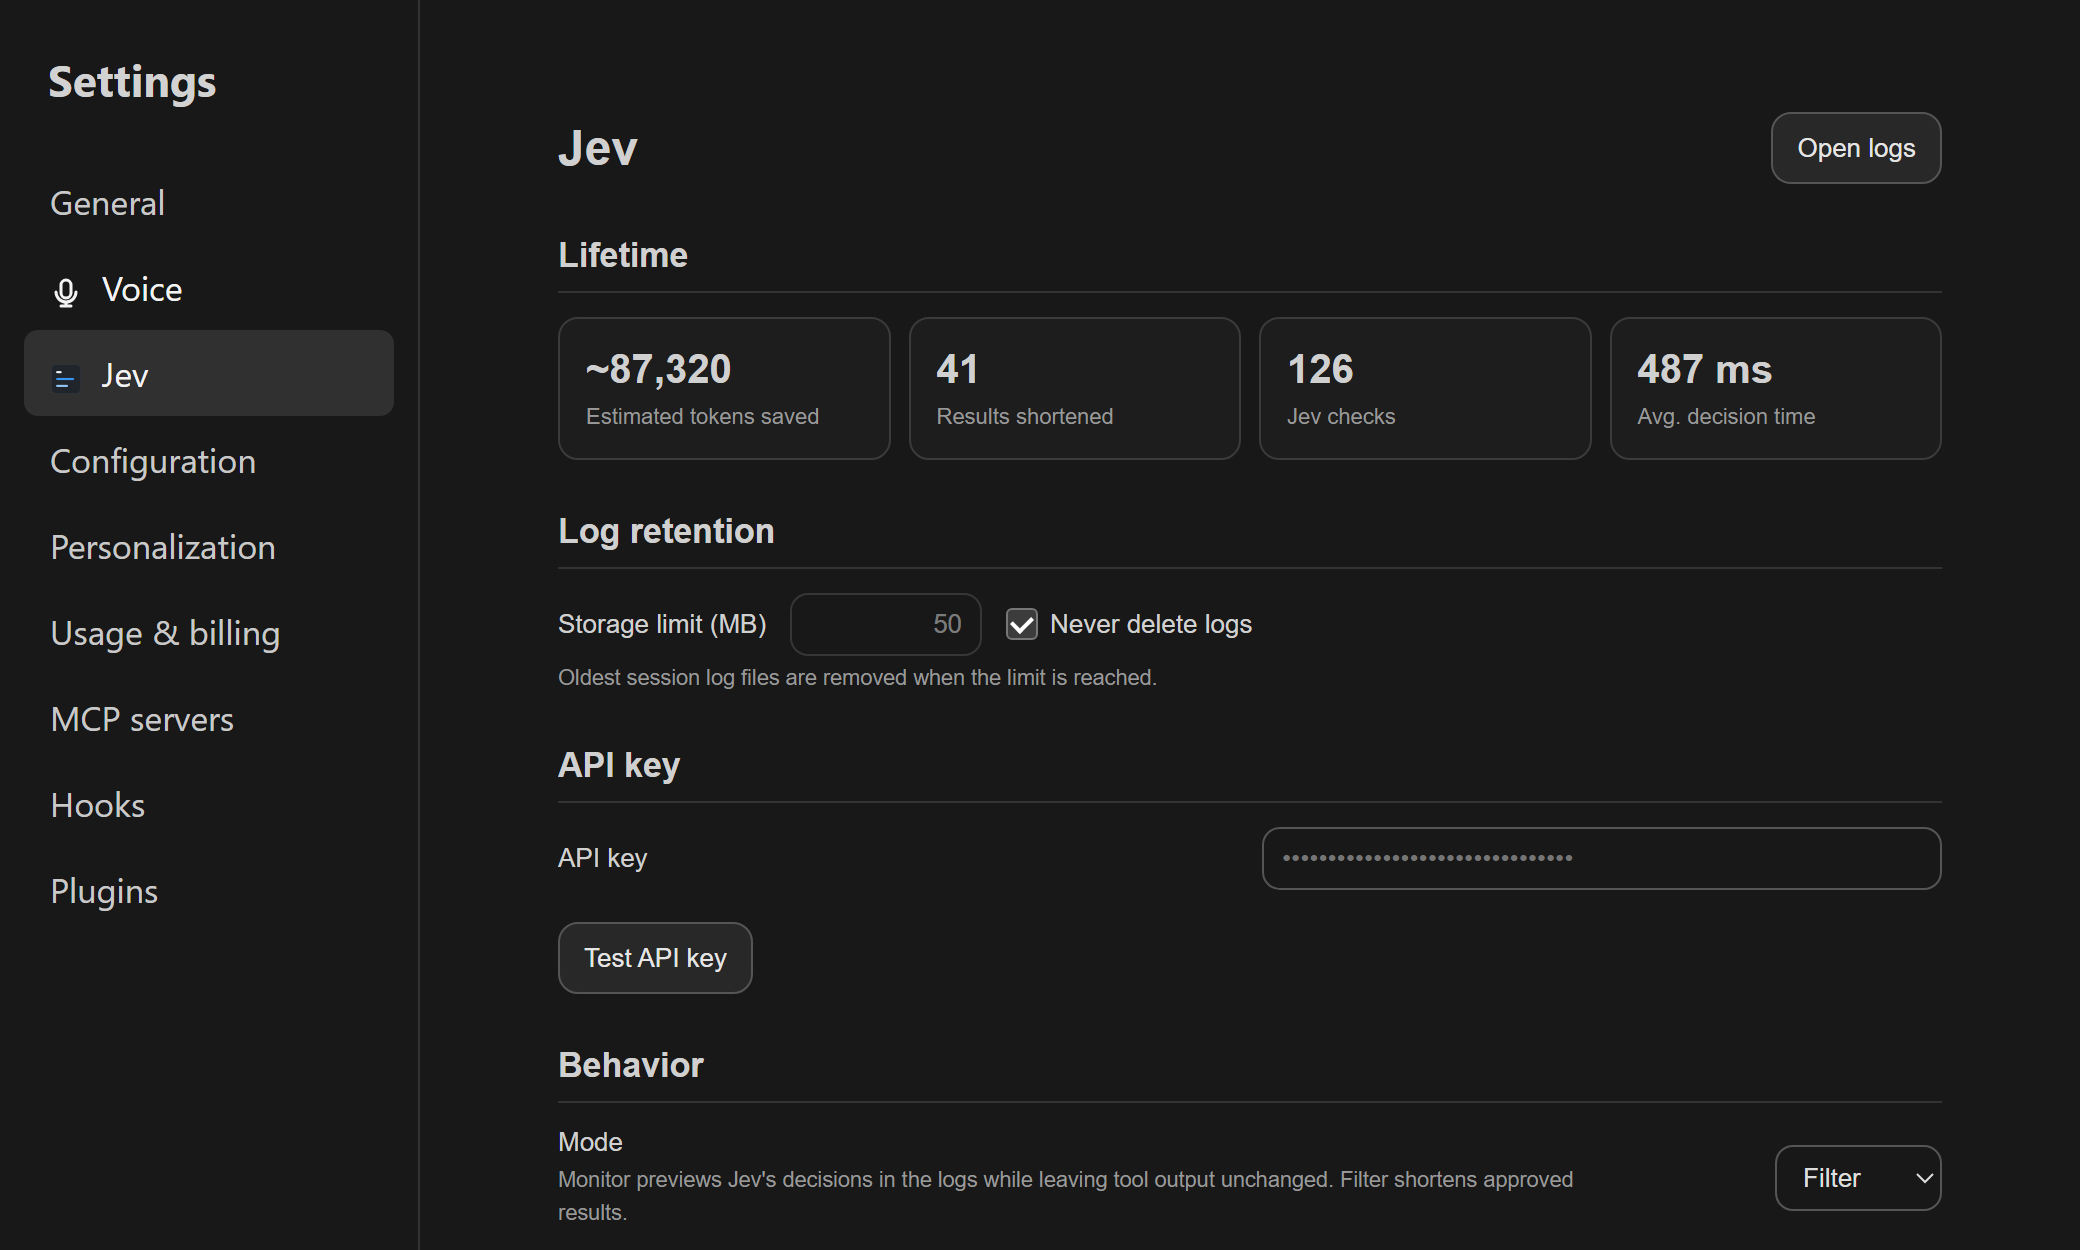
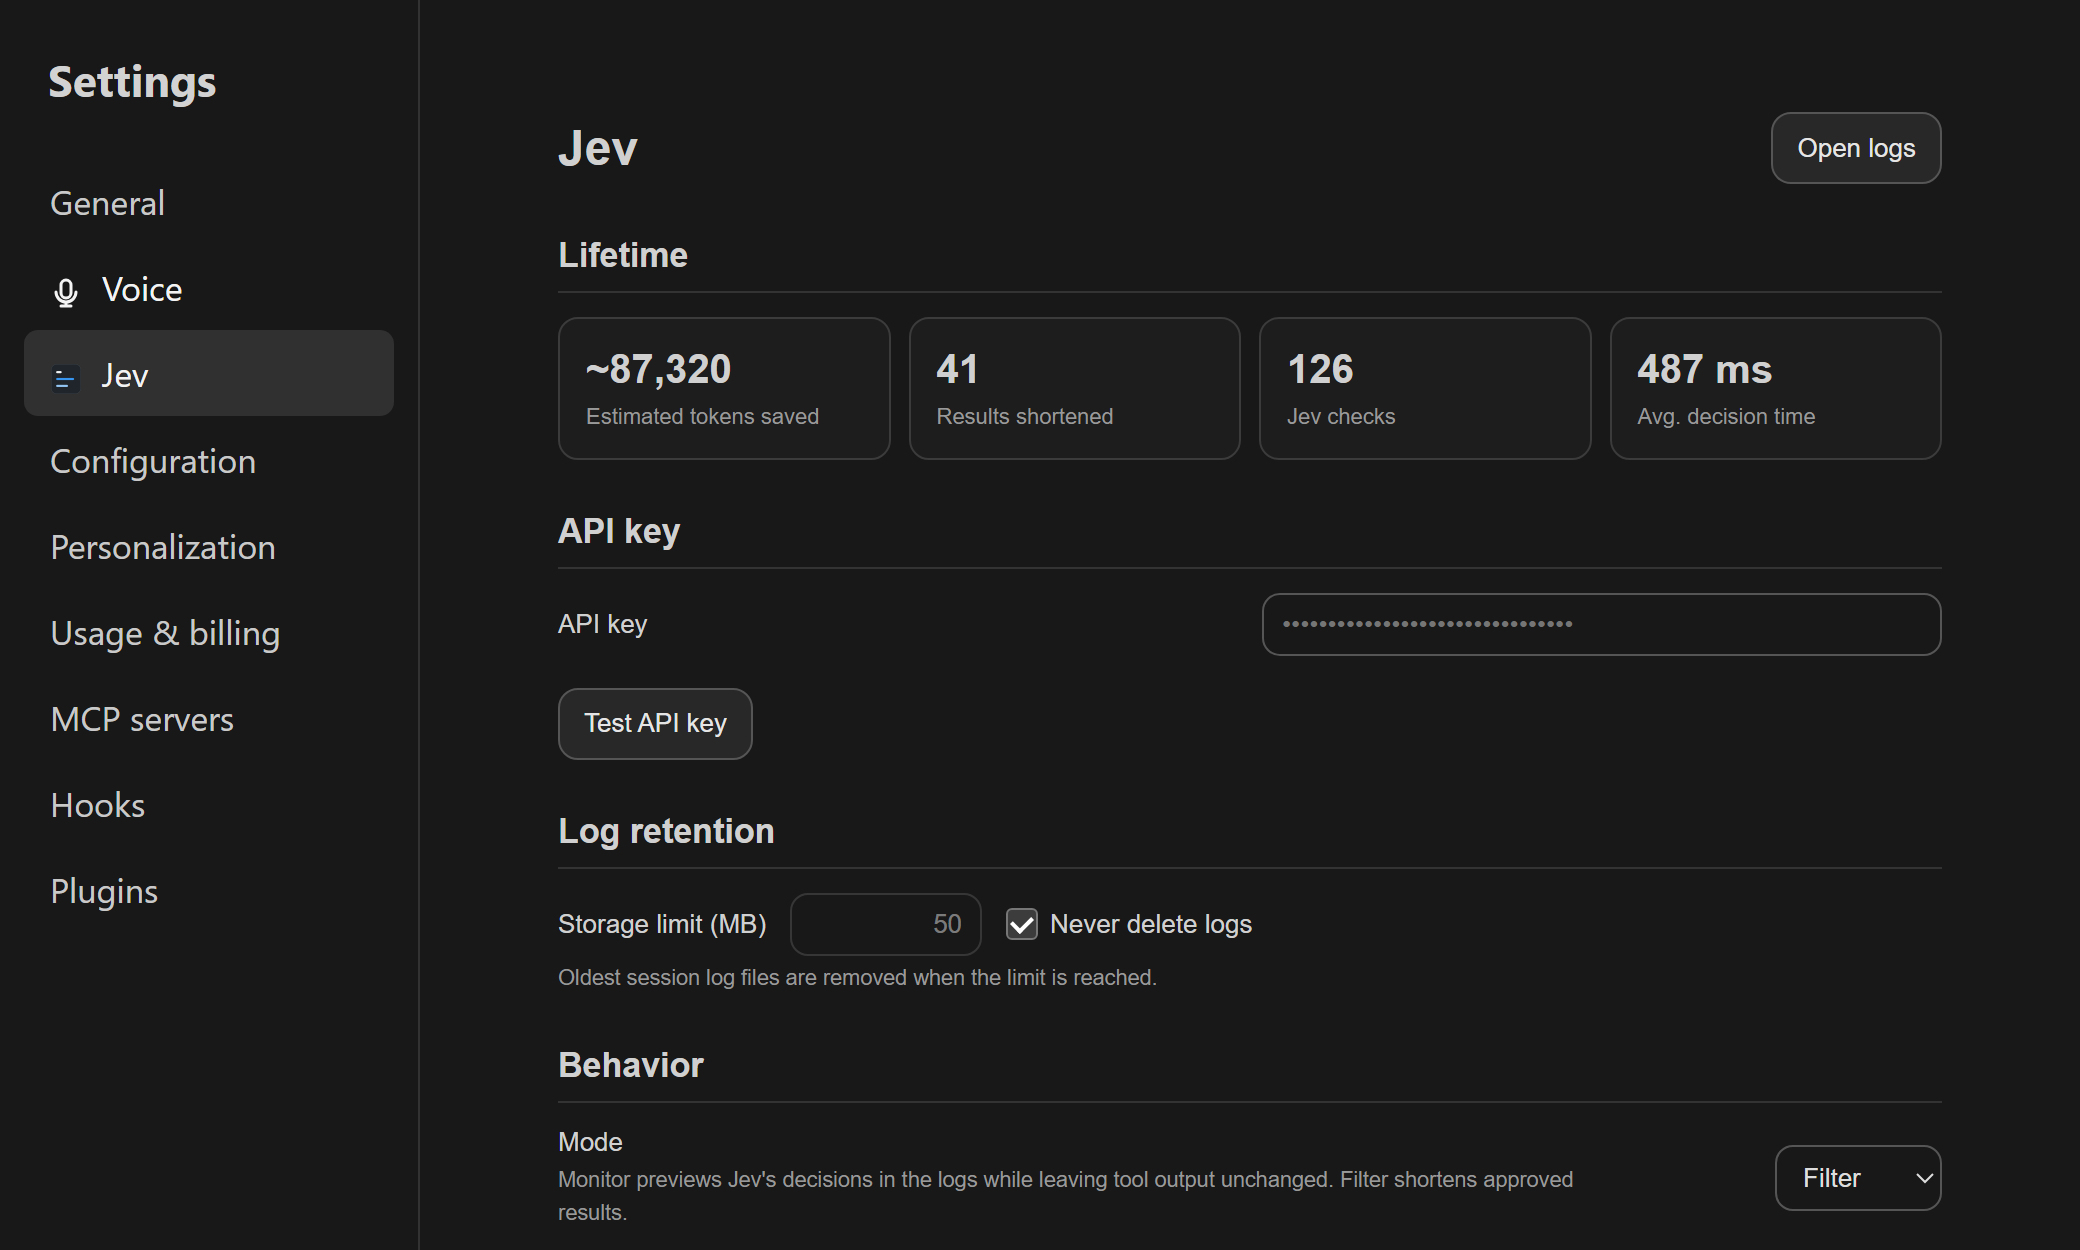
Fix

diff --git a/vscode-control/webview/jev-settings.js b/vscode-control/webview/jev-settings.js
@@ -272,7 +272,7 @@
     document.head.append(style);
     panel = document.createElement("div");
     panel.id = "codex-jev-settings-panel";
-    panel.innerHTML = `<div class="header"><h1>Jev</h1><button id="codex-jev-settings-open-logs" type="button">Open logs</button></div><section aria-label="Lifetime activity"><h2>Lifetime</h2><div class="metrics"><div class="metric"><strong id="codex-jev-settings-lifetime-tokens">—</strong><span>Estimated tokens saved</span></div><div class="metric"><strong id="codex-jev-settings-lifetime-replaced">—</strong><span>Results shortened</span></div><div class="metric"><strong id="codex-jev-settings-lifetime-calls">—</strong><span>Jev checks</span></div><div class="metric"><strong id="codex-jev-settings-lifetime-time">—</strong><span>Avg. decision time</span></div></div></section><section><h2>Log retention</h2><div class="log-retention"><label for="codex-jev-settings-log-limit">Storage limit (MB)</label><input id="codex-jev-settings-log-limit" class="log-limit-input" type="text" inputmode="numeric" maxlength="4" aria-label="Log storage limit in MB"><label for="codex-jev-settings-never-delete"><input id="codex-jev-settings-never-delete" type="checkbox">Never delete logs</label></div><small>Oldest session log files are removed when the limit is reached.</small></section><section><h2>API key</h2><div class="field"><label for="codex-jev-settings-key">API key</label><input id="codex-jev-settings-key" type="password" autocomplete="off" spellcheck="false" maxlength="4096"></div><div class="actions"><button id="codex-jev-settings-test" type="button">Test API key</button><span id="codex-jev-settings-test-status" role="status" aria-live="polite"></span></div></section><section><h2>Behavior</h2><div class="field"><label for="codex-jev-settings-mode">Mode<small>Monitor previews Jev's decisions in the logs while leaving tool output unchanged. Filter shortens approved results.</small></label><select id="codex-jev-settings-mode"><option value="observe">Monitor</option><option value="replace">Filter</option></select></div><div id="codex-jev-settings-thresholds"></div></section><div class="actions save-actions"><button id="codex-jev-settings-save" type="button" class="primary">Save settings</button><button id="codex-jev-settings-reset" type="button" class="subtle" title="Restore the default settings in this form. Save to apply." disabled>Reset defaults</button></div><p id="codex-jev-settings-message" role="status" aria-live="polite"></p>`;
+    panel.innerHTML = `<div class="header"><h1>Jev</h1><button id="codex-jev-settings-open-logs" type="button">Open logs</button></div><section aria-label="Lifetime activity"><h2>Lifetime</h2><div class="metrics"><div class="metric"><strong id="codex-jev-settings-lifetime-tokens">—</strong><span>Estimated tokens saved</span></div><div class="metric"><strong id="codex-jev-settings-lifetime-replaced">—</strong><span>Results shortened</span></div><div class="metric"><strong id="codex-jev-settings-lifetime-calls">—</strong><span>Jev checks</span></div><div class="metric"><strong id="codex-jev-settings-lifetime-time">—</strong><span>Avg. decision time</span></div></div></section><section><h2>API key</h2><div class="field"><label for="codex-jev-settings-key">API key</label><input id="codex-jev-settings-key" type="password" autocomplete="off" spellcheck="false" maxlength="4096"></div><div class="actions"><button id="codex-jev-settings-test" type="button">Test API key</button><span id="codex-jev-settings-test-status" role="status" aria-live="polite"></span></div></section><section><h2>Log retention</h2><div class="log-retention"><label for="codex-jev-settings-log-limit">Storage limit (MB)</label><input id="codex-jev-settings-log-limit" class="log-limit-input" type="text" inputmode="numeric" maxlength="4" aria-label="Log storage limit in MB"><label for="codex-jev-settings-never-delete"><input id="codex-jev-settings-never-delete" type="checkbox">Never delete logs</label></div><small>Oldest session log files are removed when the limit is reached.</small></section><section><h2>Behavior</h2><div class="field"><label for="codex-jev-settings-mode">Mode<small>Monitor previews Jev's decisions in the logs while leaving tool output unchanged. Filter shortens approved results.</small></label><select id="codex-jev-settings-mode"><option value="observe">Monitor</option><option value="replace">Filter</option></select></div><div id="codex-jev-settings-thresholds"></div></section><div class="actions save-actions"><button id="codex-jev-settings-save" type="button" class="primary">Save settings</button><button id="codex-jev-settings-reset" type="button" class="subtle" title="Restore the default settings in this form. Save to apply." disabled>Reset defaults</button></div><p id="codex-jev-settings-message" role="status" aria-live="polite"></p>`;
     const thresholds = panel.querySelector("#codex-jev-settings-thresholds");
     for (const [hook, heading, fields] of sections) {
       const title = document.createElement("h2");

diff --git a/README.md b/README.md
@@ -37,7 +37,7 @@ All three start disabled. **Monitor** records decisions without changing output.
 
 <img src="docs/images/jev-connect.png" width="900" alt="Illustrative Connect Jev API key screen beside the Codex sign-in view; example state with no key">
 
-<img src="docs/images/jev-settings-overview.png" width="850" alt="Jev settings page showing activity, log retention, API key, and mode">
+<img src="docs/images/jev-settings-overview.png" width="850" alt="Jev settings page showing activity, API key, log retention, and mode">
 
 <img src="docs/images/jev-settings-filters.png" width="850" alt="Jev settings page showing filter methods and cutoffs">
 

diff --git a/vscode-control/README.md b/vscode-control/README.md
@@ -33,7 +33,7 @@ Open **Codex settings → Jev**, below **Voice**, to test or replace the key, se
 
 ![Connect Jev API key prompt with Test, Save, Skip, and the TypeSafe key link](../docs/images/jev-connect.png)
 
-![Jev settings page with lifetime activity, log retention, API key, and mode controls](../docs/images/jev-settings-overview.png)
+![Jev settings page with lifetime activity, API key, log retention, and mode controls](../docs/images/jev-settings-overview.png)
 
 ![Jev settings page with decision method checkboxes and output and test/build cutoff sliders](../docs/images/jev-settings-filters.png)
 
